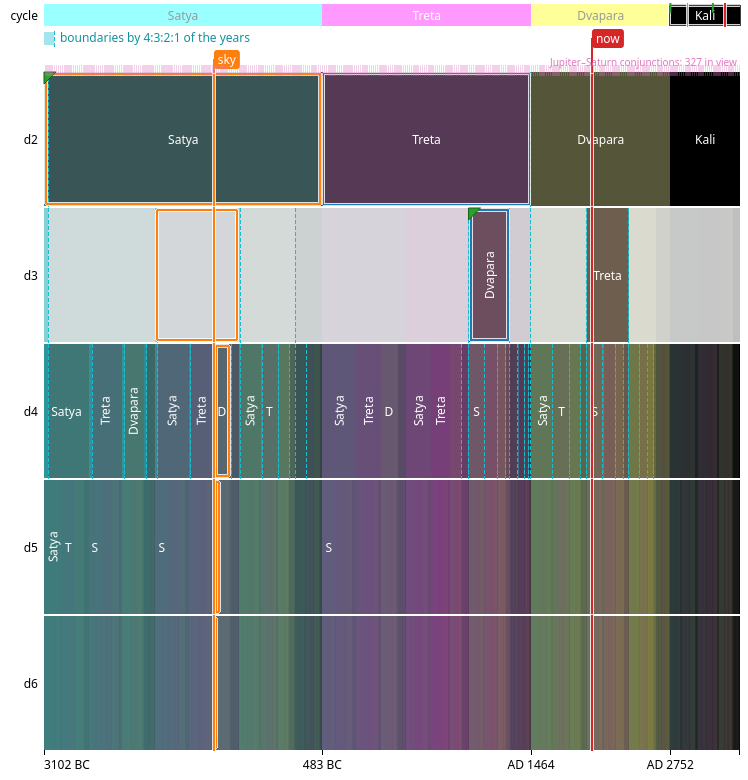
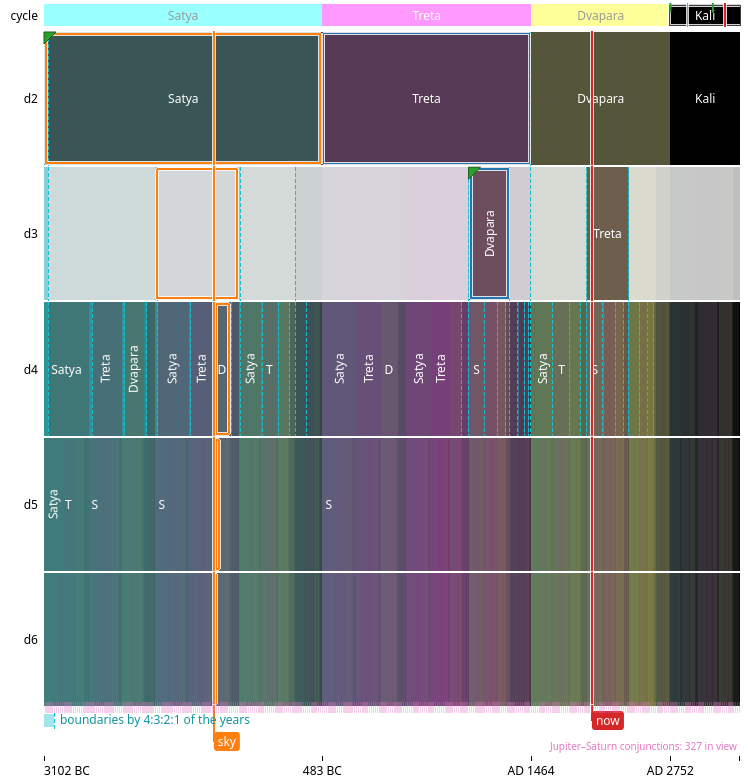
Move the navigator's tags (date, sky moment), the criteria key and the events label to a band under the rows, above the time axis, so the rows start right under the overview

diff --git a/cycles/gui/navigator.py b/cycles/gui/navigator.py
@@ -7,7 +7,8 @@ column of dots (4, 3, 2, 1 for Satya, Treta, Dvapara, Kali).
 Mouse: click selects, double-click zooms in, right-click zooms out; a click on
 the overview zooms to that yuga; Shift+click sets the moment of the sky chart.
 The tags of the marked date and of the sky moment, in a band under the
-overview, can be dragged along the rows (Escape cancels a drag).
+rows (above the time axis), can be dragged along the rows (Escape cancels a
+drag).
 Keys: Left/Right previous/next subcycle, Up parent, Down first part,
 Enter zoom into the selection, Backspace/Escape zoom out.
 """
@@ -25,7 +26,8 @@ from cycles.gui.state import (
 LABEL_WIDTH = 44     # left margin, for the depth of each row
 AXIS_HEIGHT = 24     # bottom margin, for the time axis
 OVERVIEW_HEIGHT = 22  # strip of the whole cycle, at the top
-TAG_GAP = 3          # around the band of the marker tags, between the overview and the rows
+TAG_GAP = 3          # around the band of the marker tags, between the rows and the time axis
+ROWS_TOP_GAP = 6     # between the overview and the first row
 ROW_GAP = 2          # between rows
 # the two criteria for dividing the cycle, when the navigator compares them
 CRITERIA_COLORS = {'angle': '#8c564b', 'time': '#17becf'}
@@ -116,17 +118,27 @@ class Navigator(QWidget):
     def _tag_height(self) -> float:
         return self.fontMetrics().height() + 2
 
+    def _band_lines(self) -> int:
+        """Lines of the tag band: one per marker tag shown (date, sky), as many as the key of the criteria needs."""
+        state = self.state
+        tags = int(state.date is not None) + int(state.sky_time is not None)
+        key = 0
+        if state.compare_criteria and state.model is not None:
+            key = 2 if state.model.division == 'hybrid' else 1
+        return max(1, tags, key)
+
     def _tag_band(self) -> QRectF:
-        """Band between the overview and the rows, with a line for each marker tag (date, then sky)."""
-        top = self._overview_rect().bottom() + TAG_GAP
-        return QRectF(LABEL_WIDTH, top, self.width() - LABEL_WIDTH - 8, 2 * self._tag_height() + 2)
+        """Band between the rows and the time axis, with a line for each marker tag (date, then sky)."""
+        height = self._band_lines() * (self._tag_height() + 2)
+        bottom = self.height() - AXIS_HEIGHT - TAG_GAP
+        return QRectF(LABEL_WIDTH, bottom - height, self.width() - LABEL_WIDTH - 8, height)
 
     def _layout(self) -> list[tuple[QRectF, tuple, int, int]]:
         """Cells to draw: (rectangle, address, depth, index)."""
         state = self.state
         rows = self._rows()
-        top = self._tag_band().bottom() + TAG_GAP
-        area = QRectF(LABEL_WIDTH, top, self.width() - LABEL_WIDTH - 8, self.height() - AXIS_HEIGHT - 4 - top)
+        top = self._overview_rect().bottom() + ROWS_TOP_GAP
+        area = QRectF(LABEL_WIDTH, top, self.width() - LABEL_WIDTH - 8, self._tag_band().top() - TAG_GAP - top)
         row_height = area.height() / len(rows)
         focus = state.focus
         if focus:
@@ -274,7 +286,7 @@ class Navigator(QWidget):
 
     def _draw_events(self, painter: QPainter, cells) -> None:
         """
-        The planetary events of the Events panel: a short tick just above the first row at each event in the
+        The planetary events of the Events panel: a short tick just under the last row at each event in the
         zoomed span (at most one per pixel; dense events read as a band), and their name and number at an end
         of the tag band that no tag covers.
         """
@@ -286,9 +298,9 @@ class Navigator(QWidget):
         u = np.asarray(state.time_map.to_normalized(years[(years >= state.time_map.start)
                                                           & (years <= state.time_map.end)]), dtype=float)
         u = u[(u >= start) & (u <= end)]
-        first_depth = min(depth for _, _, depth, _ in cells)
-        row = [(rect, index) for rect, _, depth, index in cells if depth == first_depth]
-        level = state.cache.level(first_depth)
+        last_depth = max(depth for _, _, depth, _ in cells)
+        row = [(rect, index) for rect, _, depth, index in cells if depth == last_depth]
+        level = state.cache.level(last_depth)
         band = self._tag_band()
         color = QColor(EVENT_COLOR)
         tick = QColor(color)
@@ -305,7 +317,7 @@ class Navigator(QWidget):
                     x = rect.left() + (value - c_start) / c_duration * rect.width()
                     if round(x) not in drawn:
                         drawn.add(round(x))
-                        painter.drawLine(QPointF(x, rect.top() - 6), QPointF(x, rect.top() + 3))
+                        painter.drawLine(QPointF(x, rect.bottom() - 3), QPointF(x, rect.bottom() + TAG_GAP + 3))
                     break
         if label:
             font = QFont(painter.font())
@@ -548,7 +560,7 @@ class Navigator(QWidget):
         start, end = self._focus_extent()
         time_map = state.time_map
         span = (time_map.to_physical(end) - time_map.to_physical(start)) if time_map else 0.0
-        bottom = max(rect.bottom() for rect, *_ in cells)
+        bottom = self._tag_band().bottom() + TAG_GAP
         metrics = painter.fontMetrics()
         ticks = [(rect.left(), float(level.starts[tcoord(address)])) for rect, address in children]
         ticks.append((children[-1][0].right(), end))
@@ -576,12 +588,12 @@ class Navigator(QWidget):
         self._draw_marker(painter, cells, 'date', state.date, QColor(DATE_COLOR), date_label, 0)
         if state.sky_time is not None:
             self._draw_marker(painter, cells, 'sky', state.sky_time, QColor(MOMENT_COLOR),
-                              date_text(state.sky_time) if dragged == 'sky' else 'sky', 1)
+                              date_text(state.sky_time) if dragged == 'sky' else 'sky', int(state.date is not None))
 
     def _draw_marker(self, painter: QPainter, cells, kind: str, year, color: QColor, label, line: int) -> None:
         """
         Line at ``year`` through every row (also with equal widths), with its tag on line ``line``
-        of the tag band, joined to the line in the first row.
+        of the tag band under the rows, joined to the line in the last row.
         """
         state = self.state
         u = state.position(year)
@@ -590,7 +602,7 @@ class Navigator(QWidget):
         start, end = self._focus_extent()
         if not start <= u <= end:
             return
-        top = None
+        last = None                             # (depth, x, bottom) in the deepest row
         for rect, address, depth, index in cells:
             # the cell of each row that contains the time
             level = state.cache.level(depth)
@@ -599,17 +611,19 @@ class Navigator(QWidget):
                 x = rect.left() + (u - c_start) / c_duration * rect.width()
                 stroke(painter, color, CURSOR_WIDTH,
                        lambda x=x, r=rect: painter.drawLine(QPointF(x, r.top()), QPointF(x, r.bottom())))
-                top = x if top is None else top
-        if top is not None and label:
+                if last is None or depth > last[0]:
+                    last = (depth, x, rect.bottom())
+        if last is not None and label:
+            _, x, rows_bottom = last
             metrics = painter.fontMetrics()
             band = self._tag_band()
             height = self._tag_height()
             y = band.top() + line * (height + 2)
-            # the line goes on up through the band to the tag
+            # the line goes on down from the last row to the tag
             stroke(painter, color, CURSOR_WIDTH,
-                   lambda: painter.drawLine(QPointF(top, y + height / 2), QPointF(top, band.bottom() + TAG_GAP)))
+                   lambda: painter.drawLine(QPointF(x, rows_bottom), QPointF(x, y + height / 2)))
             width = metrics.horizontalAdvance(label) + 8
-            left = top if top + width < self.width() - 8 else top - width
+            left = x if x + width < self.width() - 8 else x - width
             tag = QRectF(left, y, width, height)
             painter.setRenderHint(QPainter.RenderHint.Antialiasing, True)
             painter.setPen(Qt.PenStyle.NoPen)

diff --git a/tests/test_gui_navigator.py b/tests/test_gui_navigator.py
@@ -29,13 +29,25 @@ def drag(navigator, spin, kind, dx, cancel=False):
     spin()
 
 
-def test_tags_are_in_their_band_between_the_overview_and_the_rows(navigator):
+def test_tags_are_in_their_band_between_the_rows_and_the_axis(window, navigator, spin):
+    from cycles.gui.navigator import AXIS_HEIGHT, ROWS_TOP_GAP
     band = navigator._tag_band()
     rows_top = min(rect.top() for rect, _ in navigator._cells)
-    assert band.top() >= navigator._overview_rect().bottom() and band.bottom() <= rows_top
+    rows_bottom = max(rect.bottom() for rect, _ in navigator._cells)
+    # the rows start just under the overview; the tags are under the rows, above the time axis
+    assert rows_top == navigator._overview_rect().bottom() + ROWS_TOP_GAP
+    assert band.top() >= rows_bottom and band.bottom() <= navigator.height() - AXIS_HEIGHT
     assert set(navigator._tags) == {'date', 'sky'}
     for rect in navigator._tags.values():
         assert band.top() - 0.5 <= rect.top() and rect.bottom() <= band.bottom() + 0.5
+    assert navigator._tags['date'].top() < navigator._tags['sky'].top()     # one line each
+    # with only one tag the band is a single line, and the rows grow into the space
+    lines = navigator._band_lines()
+    window.state.set_date(None)
+    spin()
+    navigator.repaint()
+    assert navigator._band_lines() == lines - 1 == 1 and set(navigator._tags) == {'sky'}
+    assert max(rect.bottom() for rect, _ in navigator._cells) > rows_bottom
 
 
 def test_dragging_the_tags_moves_the_markers(window, navigator, spin):

diff --git a/docs/es/markdown/12_aplicacion_grafica.md b/docs/es/markdown/12_aplicacion_grafica.md
@@ -13,8 +13,10 @@ La interfaz está en inglés. Este capítulo describe cada parte con los nombres
 
 El área central muestra las subdivisiones del subciclo ampliado (el **zoom**), una fila por profundidad, cada
 subciclo con su color. Arriba, una franja con el **ciclo completo**, con la parte ampliada enmarcada, la fecha
-marcada y el momento del cielo; pulsar una edad en ella amplía esa edad. Entre la franja y las filas hay una
-**banda de etiquetas** con las de la fecha (*now* o la fecha, en rojo) y el momento del cielo (*sky*, en naranja).
+marcada y el momento del cielo; pulsar una edad en ella amplía esa edad. Las filas empiezan justo debajo. Bajo
+las filas, sobre el eje del tiempo, hay una **banda de etiquetas** con las de la fecha (*now* o la fecha, en rojo) y
+el momento del cielo (*sky*, en naranja), cada una al pie de su línea; la banda tiene una línea por etiqueta (o
+las que necesite la clave de los criterios), y las filas ocupan el resto.
 
 Cada papel tiene un solo color, en el navegador y en todos los gráficos: la **selección** en azul (un borde de
 2 píxeles; sus padres, de 1), el **momento del cielo** en naranja (su línea, su etiqueta y, con *Follow*, los
@@ -301,7 +303,7 @@ resume. La tabla lista los acontecimientos del tramo ampliado con su fecha (UT) 
 ángulo medio de los planetas y el arco que los contiene. Pulsar una fila lleva allí el momento del cielo y
 selecciona el subciclo de esa profundidad que lo contiene.
 
-Con *Show in navigator*, los acontecimientos aparecen en el navegador como marcas rosas justo encima de la primera
+Con *Show in navigator*, los acontecimientos aparecen en el navegador como marcas rosas justo debajo de la última
 fila (translúcidas cuando son tantas que forman una banda), con su nombre y su número en un extremo de la banda de
 etiquetas. Los catálogos se calculan una vez con la efeméride del panel *Sky* y se guardan en disco
 (`sandbox/data/events/`), compartidos con `study_of_events.py`; el resultado es una sola prueba, y el estudio

diff --git a/CHANGELOG.md b/CHANGELOG.md
@@ -55,6 +55,10 @@ the commit `vX.Y.Z`.
   the selection blue (a thinner border, 2 px, its parents 1 px), the sky moment orange (its cursor and tag, as the
   Follow boxes already were), the marked date red. The cursors are solid lines, and borders and cursors have a
   light edge so that they stand out over cells of any color.
+- **The navigator's tags below the rows**: the tags of the marked date and the sky moment, the key of the criteria
+  and the label of the planetary events moved from between the overview and the rows to a band under the rows,
+  above the time axis (one line per tag shown), so the rows start right under the overview; the event ticks are
+  under the last row.
 - **Tests in parallel**: `pytest-xdist` in the `test` extra; `pytest -n 8` runs the suite in under a minute instead
   of nine.
 - **README**: a short introduction with installation, a quick start, the chapters of the documentation and the
